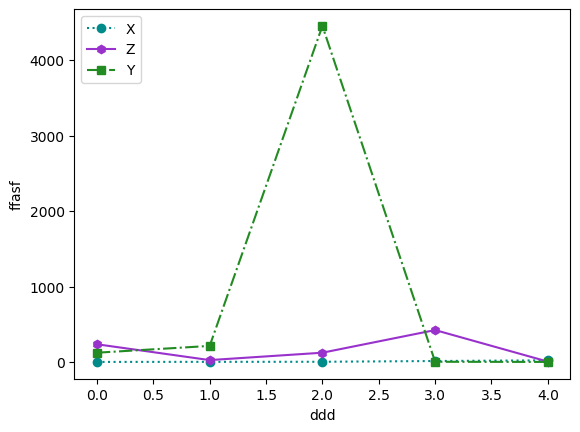
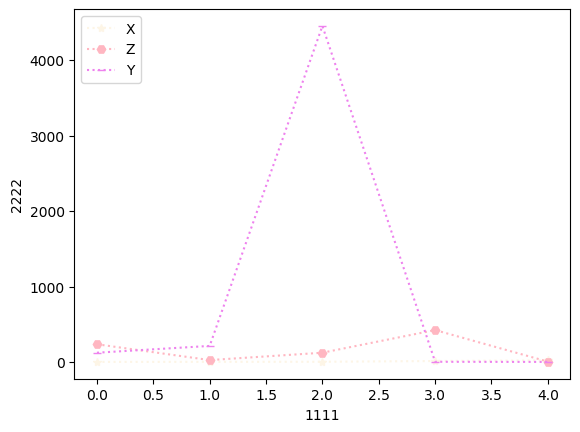
update introduction

diff --git a/README.md b/README.md
@@ -5,7 +5,7 @@
  * @Author: xiaoshuyui
  * @Date: 2020-04-16 15:40:01
  * @LastEditors: xiaoshuyui
- * @LastEditTime: 2020-04-21 13:57:46
+ * @LastEditTime: 2020-04-21 15:36:30
  -->
 # WebBrowser-python-pyqt5-14
 
@@ -105,3 +105,13 @@ flask后端更新 template，主要是展示seaborn数据图
 ### 修改3
 
 添加历史记录以及地址栏自动补全功能，但是暂时没做到点击QCompleter之后的项能够跳转。参考的是 https://www.cnblogs.com/shiqi17/p/12176497.html
+
+### 修改4
+
+![Demo](./details/11.png)
+
+![Demo](./details/12.png)
+
+可以使用plt重新绘制（暂时只支持添加x,y轴label）图片
+
+TODO:感觉可以把这个做在网页端，添加n个可变参数。
